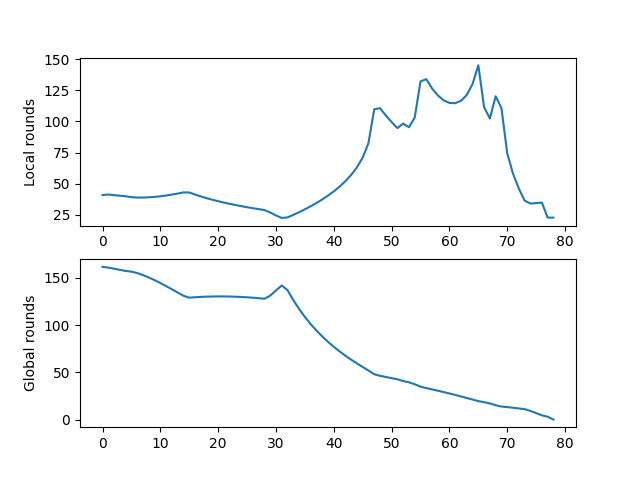
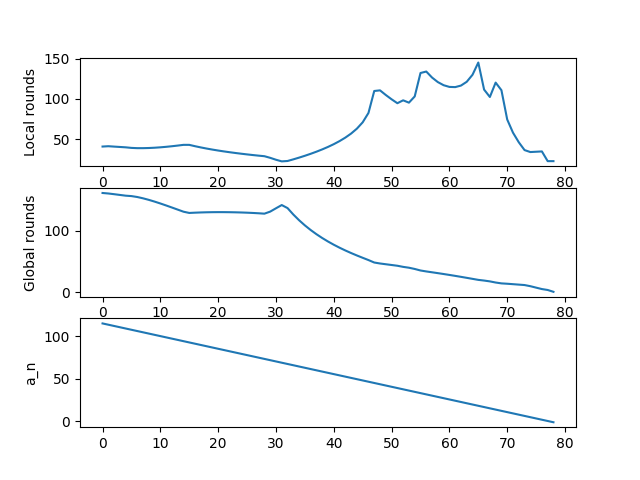
update a_n

diff --git a/examples/plot_synthetic.py b/examples/plot_synthetic.py
@@ -4,7 +4,7 @@ import numpy as np
 
 def parse_log(file_name): 
     rounds, acc, loss, sim = [], [], [], []
-    lrounds, grounds = [], [] 
+    lrounds, grounds, ans = [], [], []
     
     for line in open(file_name, 'r'):
         search_train_acc = re.search(r'At round (.*) training accuracy: (.*)', line, re.M|re.I)
@@ -31,10 +31,14 @@ def parse_log(file_name):
         if search_ground: 
             grounds.append(float(search_ground.group(2)))    
     
-    return rounds, acc, loss, sim, lrounds, grounds
+        search_an = re.search(r'At round (.*) a_n: (.*)', line, re.M|re.I)
+        if search_an: 
+            ans.append(float(search_an.group(2)))
+        
+    return rounds, acc, loss, sim, lrounds, grounds, ans 
 
 def test_parse_log(in_file, out_file1, out_file2): 
-    rounds, acc, loss, sim, lrounds, grounds = parse_log(file_name=in_file)
+    rounds, acc, loss, sim, lrounds, grounds, ans = parse_log(file_name=in_file)
 
     print(f"acc = \n{acc[-5:]}") 
     print(f"loss = \n{loss[-5:]}") 
@@ -46,6 +50,7 @@ def test_parse_log(in_file, out_file1, out_file2):
     sim = np.asarray(sim)
     lrounds = np.asarray(lrounds)
     grounds = np.asarray(grounds)
+    ans = np.asarray(ans)
 
     plt.figure(1)
     plt.subplot(311)
@@ -64,13 +69,17 @@ def test_parse_log(in_file, out_file1, out_file2):
     plt.show()
 
     plt.figure(2)
-    plt.subplot(211)
+    plt.subplot(311)
     plt.plot(rounds, lrounds)
     plt.ylabel("Local rounds")
 
-    plt.subplot(212)
+    plt.subplot(312)
     plt.plot(rounds, grounds)
     plt.ylabel("Global rounds")
+    
+    plt.subplot(313)
+    plt.plot(rounds, ans)
+    plt.ylabel("a_n")
 
     plt.savefig(out_file2)
     plt.show()

diff --git a/examples/network_optim.py b/examples/network_optim.py
@@ -26,7 +26,7 @@ class NetworkOptim:
 
     def update_an(self, cround=0): 
         self.an =  a_0 + cround * a_alpha
-        print(f"self.an = {self.an}")
+        # print(f"self.an = {self.an}")
 
     def update_channel_gains(self): 
         r"Update uav_gains, bs_gains of users"
